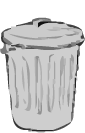
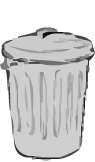
Trash can animation when deleting a vector

diff --git a/vector-addition/src/js/views/trash-can.js b/vector-addition/src/js/views/trash-can.js
@@ -6,12 +6,18 @@ define(function(require) {
   var PixiView = require('common/pixi/view');
   var Assets = require('assets');
   var Constants = require('constants');
-  var trashCanTextures = [Assets.Images.Trash_Can, Assets.Images.Trash_Can_Open];
 
   var TrashCanView = PixiView.extend({
 
+    events: {
+      'mouseover .can': 'openTrashCan',
+      'mouseout .can': 'closeTrashCan'
+    },
+
     initialize: function(options) {
       this.initGraphics();
+      this.listenTo(this.model, 'change:deleteVector', this.openTrashCan);
+      this.listenTo(this.model, 'change:deleteVector', this.closeTrashCan);
     },
 
     initGraphics: function() {
@@ -20,16 +26,43 @@ define(function(require) {
 
     trashCan: function() {
       this.canContainer = new PIXI.DisplayObjectContainer();
-      var can = Assets.createSprite(Assets.Images.Trash_Can);
-      var can_open = Assets.createSprite(Assets.Images.Trash_Can_Open);
+      var can = Assets.createSprite(Assets.Images.Trash_Can),
+       can_open = Assets.createSprite(Assets.Images.Trash_Can_Open),
+       canvas = $('.scene-view');
 
-      can.x = 0.88 * $('.scene-view').width();
-      can.y = 0.70 * $('.scene-view').height();
-      can.buttonMode = true;
+
+      this.canContainer.buttonMode = true;
       this.canContainer.addChild(can);
       this.can = can;
 
+      this.can.position.x = 0.88 * canvas.width();
+      this.can.position.y = 0.70 * canvas.height();
+
+      this.canContainer.addChild(can_open);
+      this.can_open = can_open;
+      this.can_open.position.x = 0.88 * canvas.width();
+      this.can_open.position.y = 0.70 * canvas.height();
+
       this.displayObject.addChild(this.canContainer);
+
+      this.can_open.alpha = 0;
+
+      this.model.set('trashCanPositionX', this.can.position.x);
+      this.model.set('trashCanPositionY', this.can.position.y);
+    },
+
+    openTrashCan: function() {
+      if (this.model.get('deleteVector')) {
+        this.can_open.alpha = 1;
+        this.can.alpha = 0;
+      }
+    },
+
+    closeTrashCan: function() {
+      if (this.model.get('deleteVector') == false) {
+        this.can_open.alpha = 0;
+        this.can.alpha = 1;
+      }
     }
 
   });

diff --git a/vector-addition/src/js/views/arrows.js b/vector-addition/src/js/views/arrows.js
@@ -46,20 +46,32 @@ define(function(require) {
     dragMove: function(data) {
       if (this.model.get('arrows') !== undefined) {
         var x = Vectors.roundGrid(data.global.x - this.displayObject.x),
-            y = Vectors.roundGrid(data.global.y - this.displayObject.y);
+            y = Vectors.roundGrid(data.global.y - this.displayObject.y),
+            arrows = this.model.get('arrows');
 
         if (this.dragging) {
            this.container.x = x;
            this.container.y = y;
 
-          //TODO
-          //Vectors.updateComponents();
+           if (this.container.x >= this.model.get('trashCanPositionX') || this.container.y >= this.model.get('trashCanPositionY')) {
+             this.model.set('deleteVector', true);
+           }
+           else {
+             this.model.set('deleteVector', false);
+           }
         }
       }
     },
 
     dragEnd: function(data) {
       this.dragging = false;
+      if (this.container.position.x >= this.model.get('trashCanPositionX') || this.container.position.y >= this.model.get('trashCanPositionY')) {
+        if (this.model.set('deleteVector', true)) {
+          Vectors.deleteArrow(this.model, this.container);
+          this.displayObject.removeChild(this.container);
+          this.model.set('deleteVector', false);
+        }
+      }
     },
 
     drawArrow: function(x, y) {
@@ -133,8 +145,6 @@ define(function(require) {
         container.pivot.set(this.arrowHead.width/2, length);
         container.rotation = Math.atan2(y, x) + 180/Math.PI *2 + .09;
 
-
-
         Vectors.updateReadouts(arrowModel, model, x, -y, length, -degrees);
       }
     },
@@ -168,8 +178,8 @@ define(function(require) {
         nbrVectors.length = 0;
       }
     }
+
   });
 
  return ArrowView;
-
   });

diff --git a/vector-addition/src/js/views/sum-vector.js b/vector-addition/src/js/views/sum-vector.js
@@ -50,8 +50,12 @@ define(function (require){
            this.sumVectorContainer.x = x;
            this.sumVectorContainer.y = y;
 
-          //TODO
-          //Vectors.updateComponents();
+          if (this.sumVectorContainer.x >= this.model.get('trashCanPositionX') || this.sumVectorContainer.y >= this.model.get('trashCanPositionY')) {
+            this.model.set('deleteVector', true);
+          }
+          else {
+            this.model.set('deleteVector', false);
+          }
         }
 
       }
@@ -59,6 +63,14 @@ define(function (require){
 
     dragEnd: function(data) {
       this.dragging = false;
+      if (this.sumVectorContainer.position.x >= this.model.get('trashCanPositionX') || this.sumVectorContainer.position.y >= this.model.get('trashCanPositionY')) {
+        if (this.model.set('deleteVector', true)) {
+          Vectors.deleteArrow(this.model, this.sumVectorContainer);
+          this.displayObject.removeChild(this.sumVectorContainer);
+          this.model.set('deleteVector', false);
+          this.model.set('sumVectorVisible', false);
+        }
+      }
     },
 
     sumVector: function(x, y) {

diff --git a/vector-addition/src/js/vector-addition.js b/vector-addition/src/js/vector-addition.js
@@ -160,6 +160,12 @@ define(function (require) {
         sumVectorTail.clear();
         sumVectorTail.beginFill(0x76EE00);
         sumVectorTail.drawRect(6, 20, 8, length - 20);
+      },
+
+      deleteArrow: function(model, container) {
+        var arrows = model.get('arrows');
+        var arrowToRemove = arrows.indexOf(container.index);
+        arrows.remove(arrowToRemove);
       }
   };
 

diff --git a/vector-addition/src/js/models/simulation.js b/vector-addition/src/js/models/simulation.js
@@ -18,10 +18,10 @@ define(function (require) {
       sumVectorThetaText: '',
       sumVectorRXText: '',
       sumVectorRYText: '',
-      labelColor: 'red'
+      labelColor: 'red',
+      deleteVector: false
     }
 
   });
-
   return VectorAdditionSimulation;
 });
